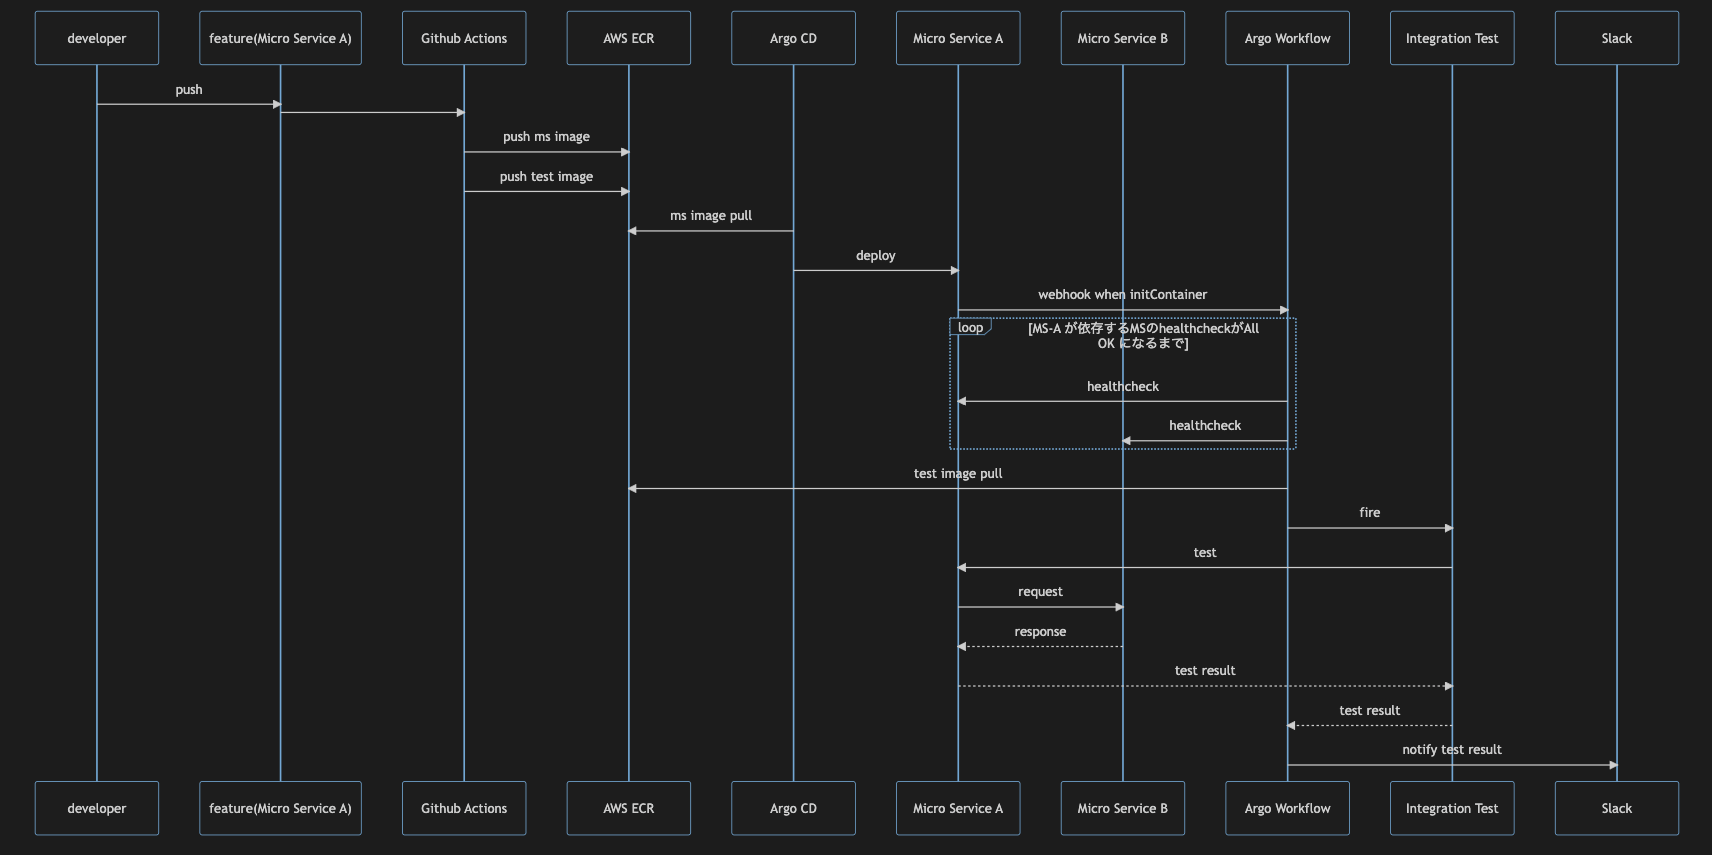
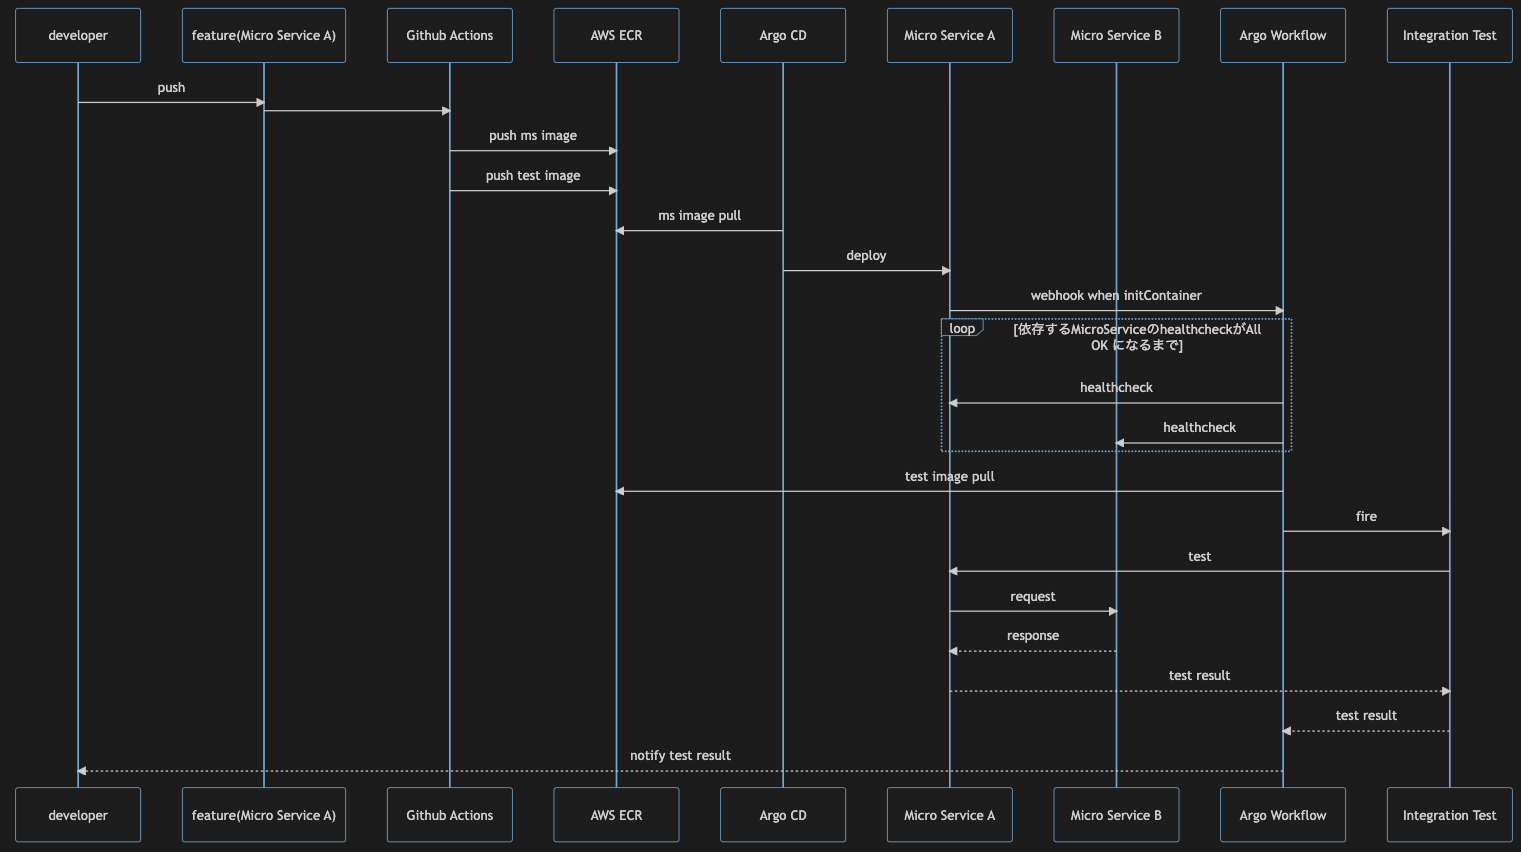
画像差し替え

diff --git a/mermaid/integration-test-flow.md b/mermaid/integration-test-flow.md
@@ -9,7 +9,6 @@ sequenceDiagram
     participant msb as Micro Service B
     participant workflow as Argo Workflow
     participant it as Integration Test
-    participant slack as Slack
 
     dev ->> git: push
     git ->> act: 
@@ -18,7 +17,7 @@ sequenceDiagram
     cd ->> ecr: ms image pull
     cd ->> msa: deploy
     msa->>workflow: webhook when initContainer
-    loop MS-A が依存するMSのhealthcheckがAll OK になるまで
+    loop 依存するMicroServiceのhealthcheckがAll OK になるまで
         workflow ->> msa: healthcheck
         workflow ->> msb: healthcheck
     end
@@ -31,6 +30,5 @@ sequenceDiagram
     msb -->> msa: response
     msa -->> it: test result
     it -->> workflow: test result
-    workflow ->> slack: notify test result
-    
+    workflow -->> dev: notify test result
 ```
